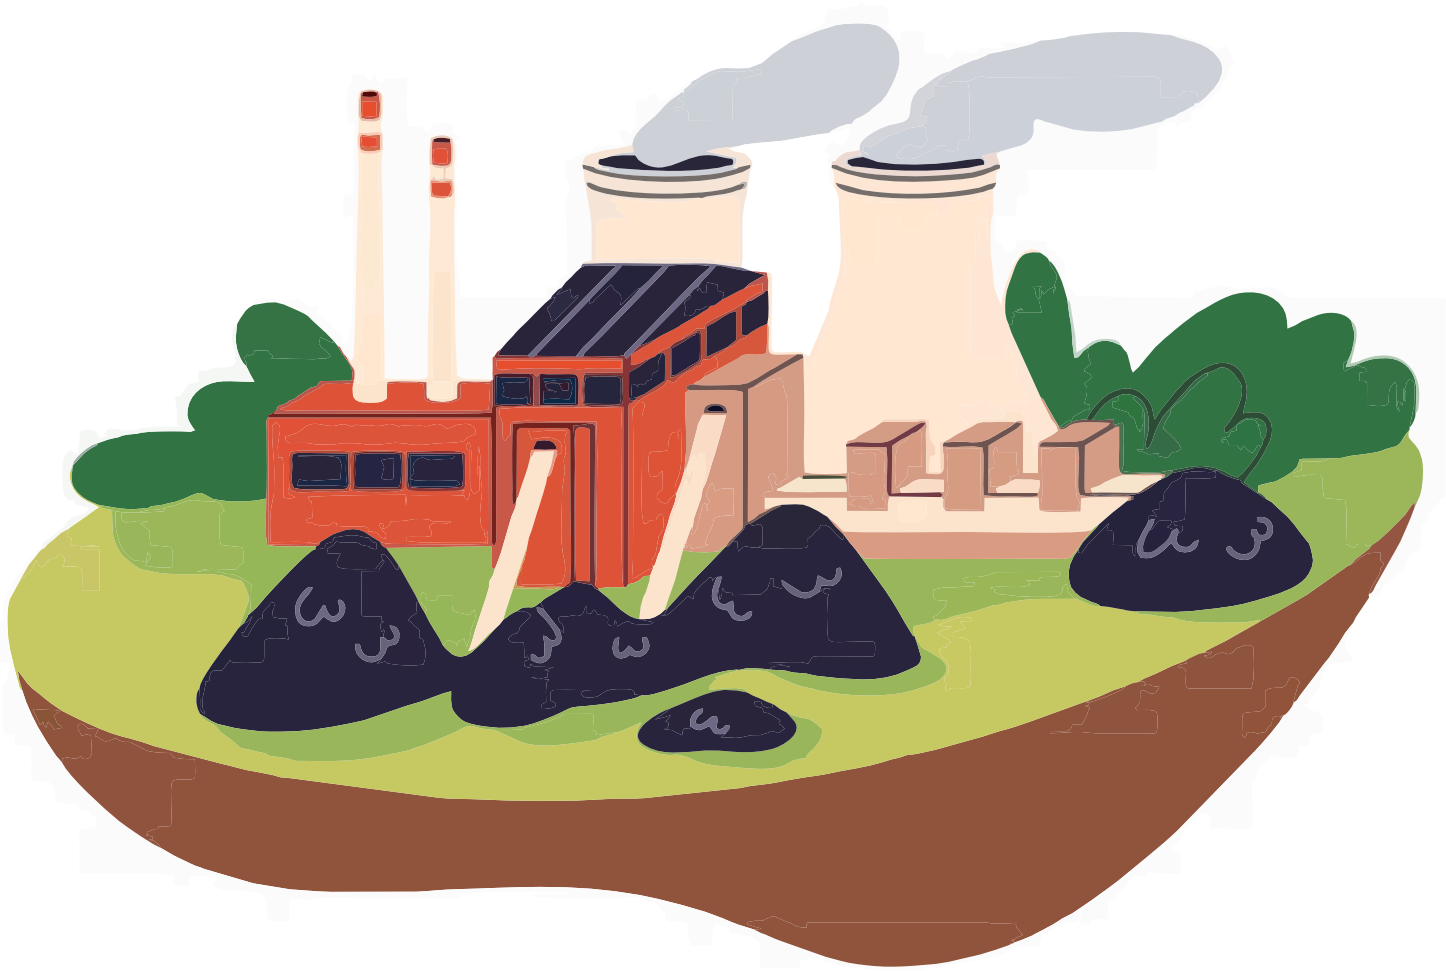
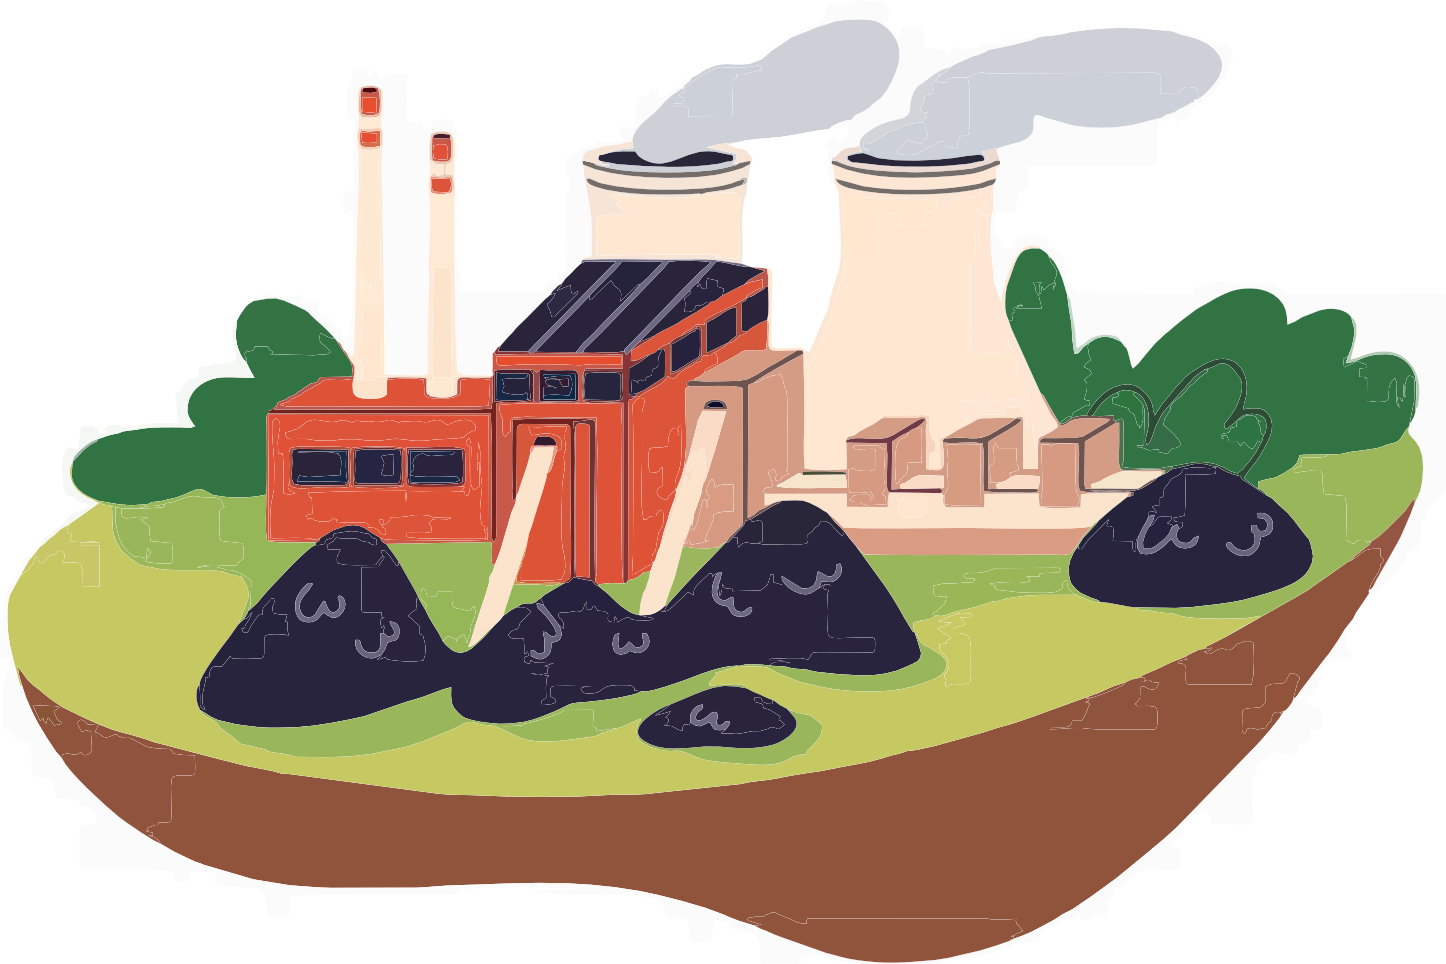
final

diff --git a/index.html b/index.html
@@ -510,7 +510,8 @@
                         <div class="col-lg-4 wow slideInUp" data-wow-delay="0.3s">
                             <div class="blog-item bg-light rounded overflow-hidden">
                                 <div class="blog-img position-relative overflow-hidden">
-                                    <img class="img-fluid my-4" src="img/bag1.png" alt="">
+                                    <img class="img-fluid my-4 mx-5 mt-5" src="img/bag1.png" alt=""
+                                        style="max-width: 75%;">
                                     <a class="position-absolute top-0 start-0 bg-primary text-white rounded-end mt-5 py-2 px-4"
                                         href="">Bagian 1</a>
                                 </div>
@@ -525,7 +526,8 @@
                         <div class="col-lg-4 wow slideInUp" data-wow-delay="0.3s">
                             <div class="blog-item bg-light rounded overflow-hidden">
                                 <div class="blog-img position-relative overflow-hidden">
-                                    <img class="img-fluid my-3" src="img/bag2.png" alt="">
+                                    <img class="img-fluid my-3 mx-5 mt-5" src="img/bag2.png" alt=""
+                                        style="max-width: 75%;">
                                     <a class="position-absolute top-0 start-0 bg-primary text-white rounded-end mt-5 py-2 px-4"
                                         href="">Bagian 2</a>
                                 </div>
@@ -541,7 +543,8 @@
                         <div class="col-lg-4 wow slideInUp" data-wow-delay="0.3s">
                             <div class="blog-item bg-light rounded overflow-hidden">
                                 <div class="blog-img position-relative overflow-hidden">
-                                    <img class="img-fluid my-2" src="img/bag3.png" alt="">
+                                    <img class="img-fluid my-2 mx-5 mt-5" src="img/bag3.png" alt=""
+                                        style="max-width: 75%;">
                                     <a class="position-absolute top-0 start-0 bg-primary text-white rounded-end mt-5 py-2 px-4"
                                         href="">Bagian 3</a>
                                 </div>
